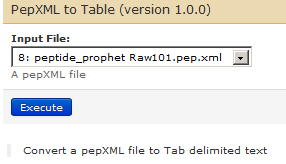
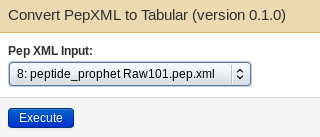
a few more updates to ththe tutorial

diff --git a/userguide/sections/galaxyp_101.rst b/userguide/sections/galaxyp_101.rst
@@ -134,7 +134,7 @@ Our next step is to create a decoy database out of the merged file (3rd history 
 
 For this, go to Tools -> FASTA Manipulation --> 'Create Decoy Database'.
 
-.. image:: ../../images/101_11.png    
+.. image:: ../../images/101_83.png    
 
 Ensure that history item 3 shows up in the “FASTA Input:” box and that the box for “Include original entries in output database:” is checked. Change Decoy prefix to REV_.
 
@@ -307,7 +307,7 @@ In order to calculate FDR at the peptide level, we will first convert
 PeptideProphet file to a tabular format.
 
 For this, go to Tools --> ProtK (under PROTEOMICS: COMMUNITY) --> Convert
-PepXML to Table. Ensure that the peptide prophet file in the history (peptide
+PepXML to Tabular. Ensure that the peptide prophet file in the history (peptide
 prophet file – 8th in the list) is highlighted.
 
 .. image:: ../../images/101_33.png
